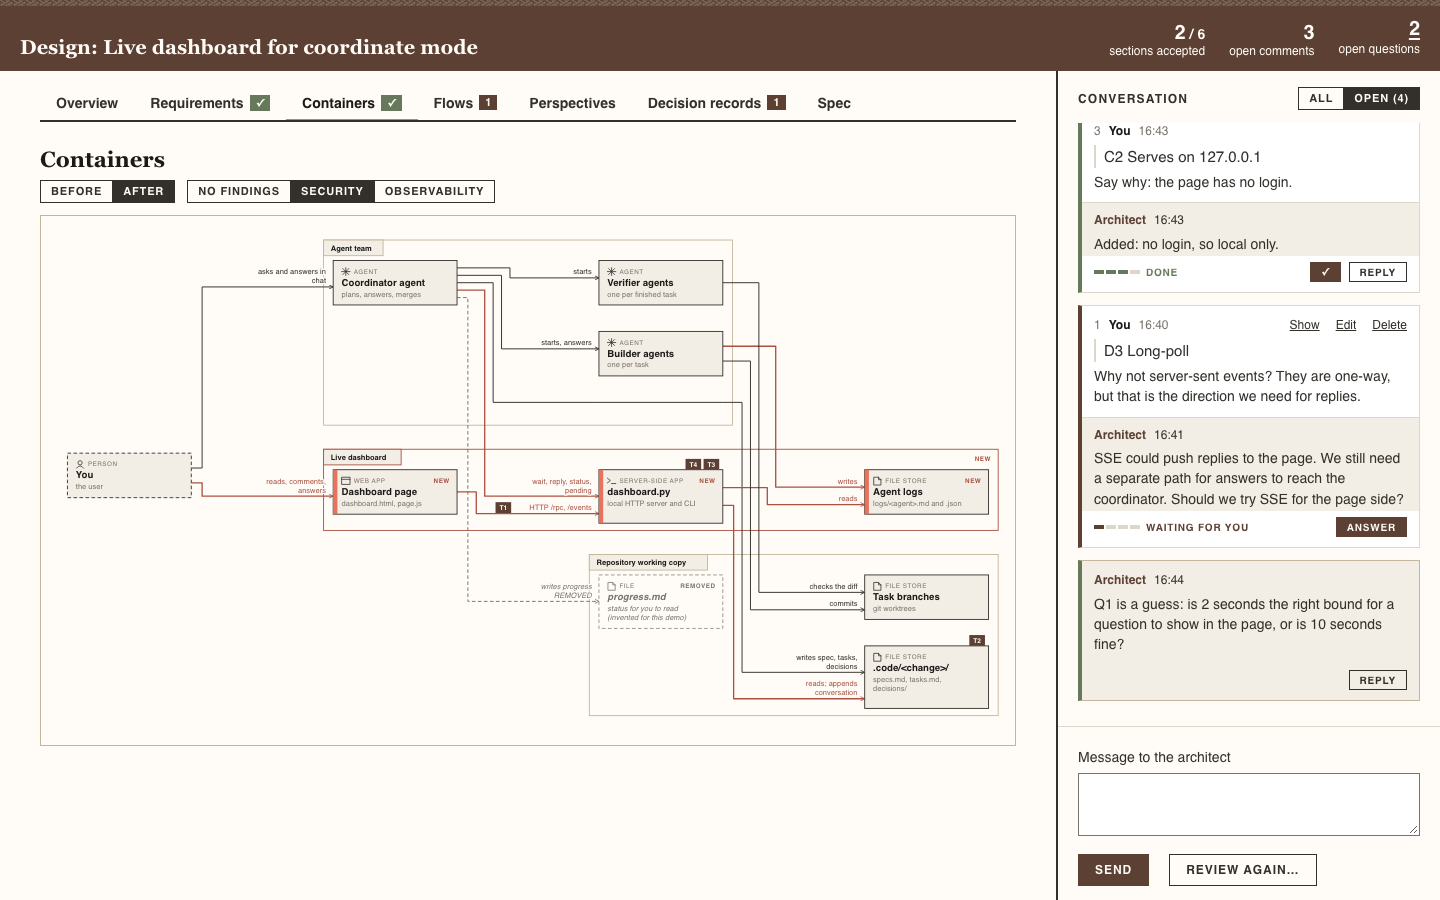
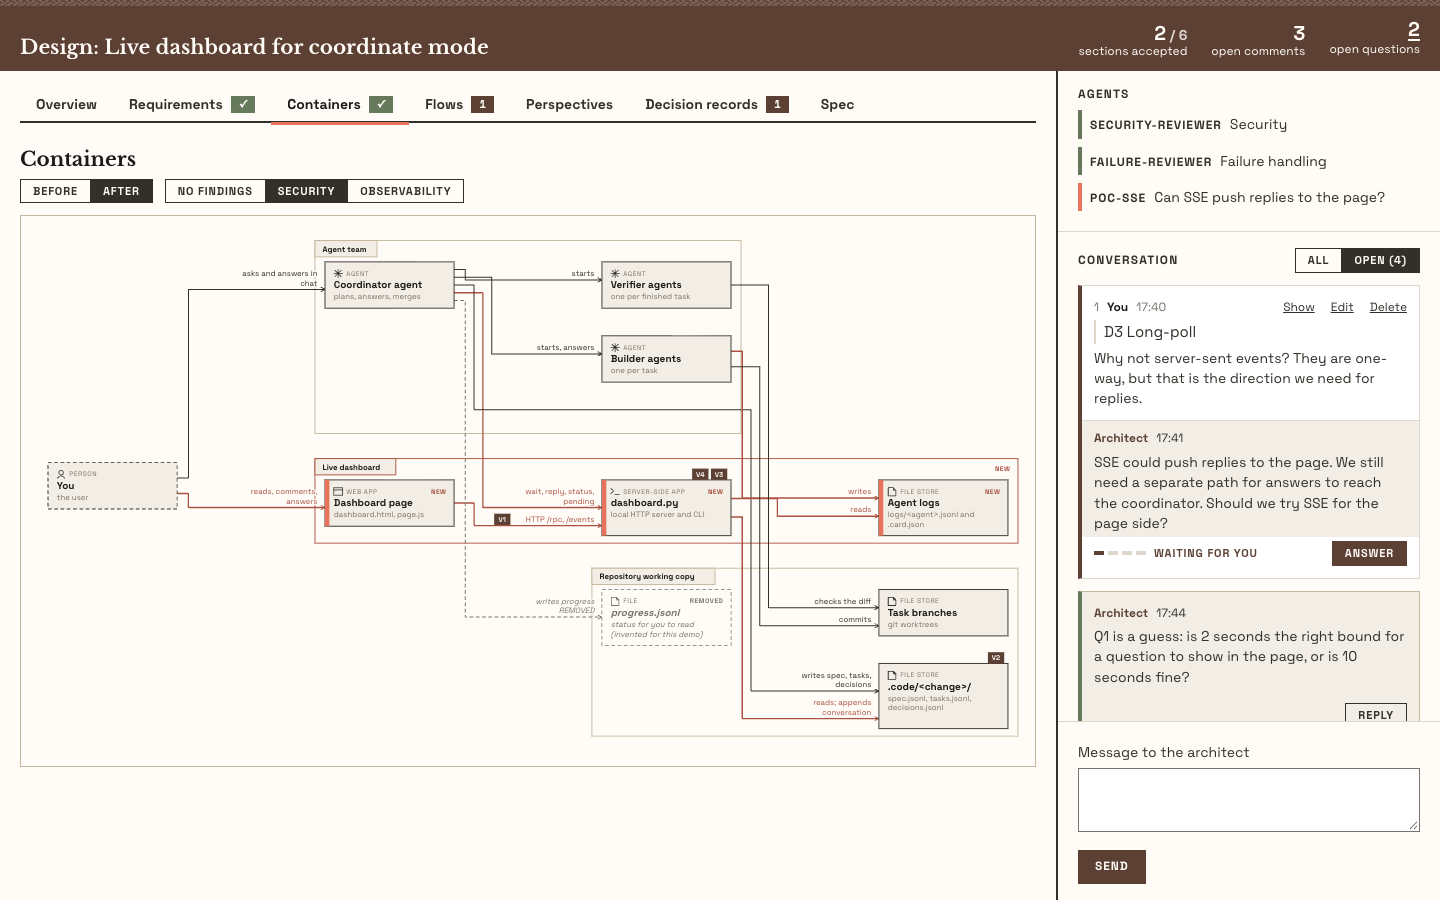
docs(architect-better): retake the screenshot with the agents at work

diff --git a/docs/architect-better.md b/docs/architect-better.md
@@ -2,8 +2,8 @@
 
 Designs a feature or a change to a software system. You check how the system works today, agree what the change needs to do, and discuss the design on a live page.
 
-![The live design page: tabs for Overview, Requirements, Containers, Flows, Perspectives, Decision records and Spec; the container diagram after the change, with new parts in terracotta, a removed part dashed, and security findings marked on the parts they concern; and a conversation with the architect on the right](img/architect-better-design.png)
-*You check the diagrams before and after the change, see review findings on the parts they concern, and click any box, arrow or step to comment on it.*
+![The live design page: tabs for Overview, Requirements, Containers, Flows, Perspectives, Decision records and Spec; the container diagram after the change, with new parts in terracotta, a removed part dashed, and security findings marked on the parts they concern; and on the right the agents at work, two perspective reviewers and a proof of concept, above a conversation with the architect](img/architect-better-design.png)
+*You check the diagrams before and after the change, see review findings on the parts they concern, see which agents are at work, and click any box, arrow or step to comment on it.*
 
 ## When to use it
 
